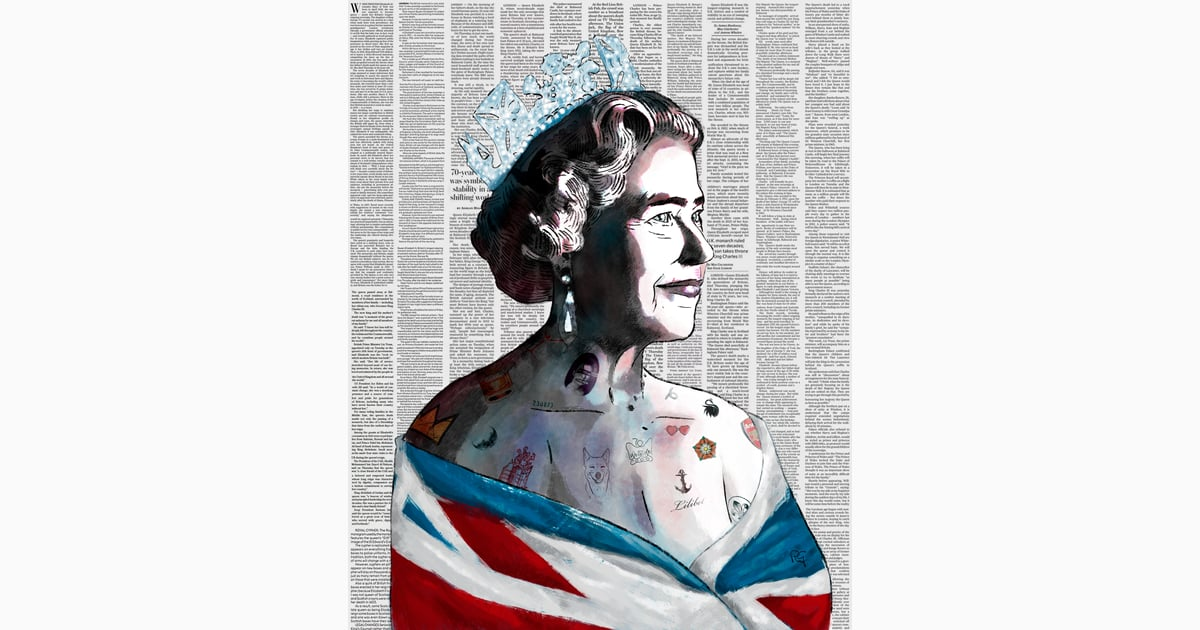
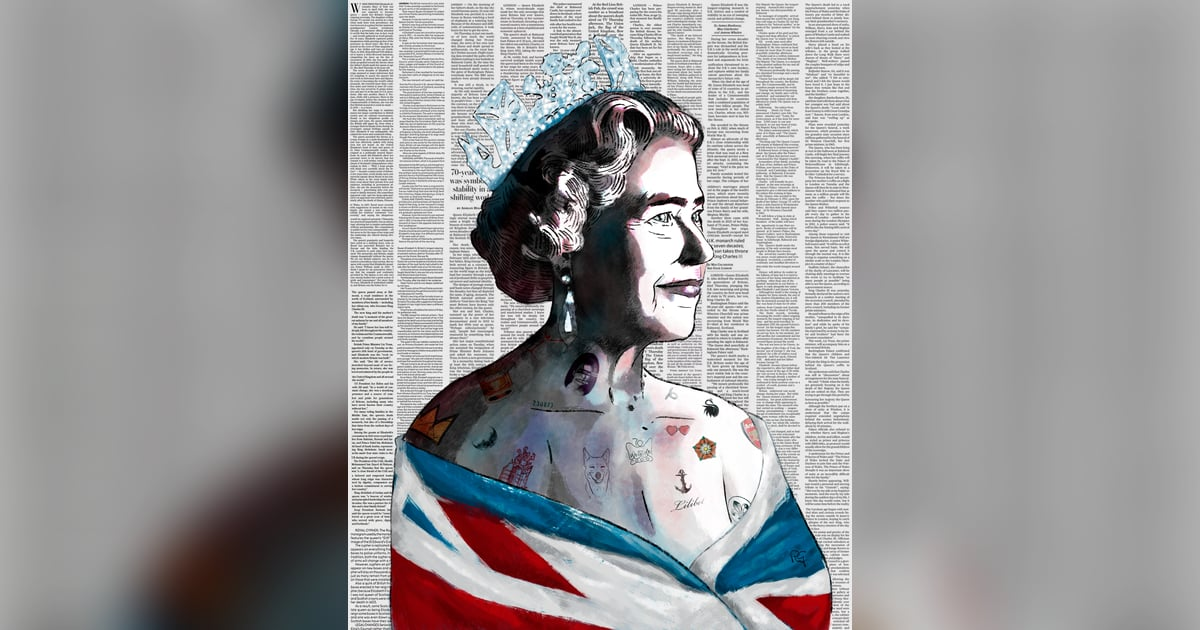
Add work: Homenaje a Studio Ghibli
First work published with /nueva-obra. Also from its review:
- OG images keep the whole artwork over a blurred fill instead of white
  bars (Isabel II regenerated too)
- Back link arrow hidden from screen readers
- Skill rules for fictional characters and ongoing series

diff --git a/src/views/data/works.js b/src/views/data/works.js
@@ -17,6 +17,46 @@ import { Categories } from './categories';
 
 export const works = [
   {
+    slug: 'fan-art-studio-ghibli',
+    title: 'Homenaje a Studio Ghibli',
+    category: 'POP_CULTURE',
+    franchise: 'Studio Ghibli',
+    status: 'featured',
+    order: 0,
+    kind: 'personal',
+    client: null,
+    series: null,
+    date: '2026-04-14',
+    summary: 'Fan art de las películas de Studio Ghibli, empezando por Mi vecino Totoro',
+    body: [
+      'Este es un proyecto personal y en marcha: mi homenaje, en forma de fan art, a las películas de Studio Ghibli.',
+      'De momento la protagonista es Mi vecino Totoro: Mei durmiendo sobre Totoro entre luciérnagas y los tres Totoros resguardándose de la lluvia bajo sus paraguas de hoja. Irán llegando ilustraciones de otras películas.'
+    ],
+    seo: {
+      title: 'Fan art de Studio Ghibli | Ilustración - Raúl García',
+      description: 'Fan art de Studio Ghibli: ilustraciones de Mi vecino Totoro con Totoro bajo la lluvia y Mei dormida entre luciérnagas. Proyecto personal en marcha.'
+    },
+    cover: 'portfolio/StudioGhibli/Totoro_2',
+    blocks: [
+      {
+        type: 'image',
+        image: 'portfolio/StudioGhibli/Totoro_2',
+        alt: 'Los tres Totoros, grande, mediano y pequeño, sentados en una rama bajo la lluvia nocturna, cada uno resguardado con una hoja a modo de paraguas, entre el follaje oscuro del bosque.',
+        width: 1280,
+        height: 1280,
+        altReviewed: true
+      },
+      {
+        type: 'image',
+        image: 'portfolio/StudioGhibli/Totoro',
+        alt: 'Mei, una niña con coletas, duerme tumbada sobre la barriga de Totoro, que también duerme boca arriba en un claro del bosque, de noche, rodeados de luciérnagas verdes; la escena está enmarcada con bordes irregulares, como de papel rasgado.',
+        width: 1280,
+        height: 905,
+        altReviewed: false
+      }
+    ]
+  },
+  {
     slug: 'retrato-isabel-ii',
     title: 'Isabel II, icono pop',
     category: 'PORTRAIT',

diff --git a/scripts/images.js b/scripts/images.js
@@ -70,17 +70,25 @@ const processImage = async (file, outputDir) => {
   return { file, name, originalBytes: fs.statSync(file).size, ...largest, warnings }
 }
 
-const writeOgImage = (file, slug) => {
+// La obra entera centrada sobre un fondo hecho con ella misma, ampliada y desenfocada:
+// sin recortar la obra ni dejar franjas blancas cuando no es apaisada
+const writeOgImage = async (file, slug) => {
   const output = path.join(ROOT, 'public', 'og', `${slug}.jpg`)
   fs.mkdirSync(path.dirname(output), { recursive: true })
-  return sharp(file)
-    .rotate()
-    .flatten({ background: BACKGROUND })
-    .resize({ ...OG_SIZE, fit: 'contain', background: BACKGROUND })
-    .toColourspace('srgb')
+  const base = () => sharp(file).rotate().flatten({ background: BACKGROUND }).toColourspace('srgb')
+  const background = await base()
+    .resize({ ...OG_SIZE, fit: 'cover' })
+    .blur(30)
+    .modulate({ brightness: 0.8 })
+    .toBuffer()
+  const artwork = await base()
+    .resize({ ...OG_SIZE, fit: 'inside' })
+    .toBuffer()
+  await sharp(background)
+    .composite([{ input: artwork, gravity: 'center' }])
     .jpeg({ quality: 85, mozjpeg: true })
     .toFile(output)
-    .then(() => path.relative(path.join(ROOT, 'public'), output).replace(/\\/g, '/'))
+  return path.relative(path.join(ROOT, 'public'), output).replace(/\\/g, '/')
 }
 
 const main = async () => {

diff --git a/src/views/portfolio/WorkComponent.vue b/src/views/portfolio/WorkComponent.vue
@@ -31,7 +31,7 @@
         </template>
       </section>
       <footer class="work__footer">
-        <router-link class="simple_link" to="/portfolio">← Volver al portfolio</router-link>
+        <router-link class="simple_link" to="/portfolio"><span aria-hidden="true">←</span> Volver al portfolio</router-link>
         <router-link class="simple_link" to="/contact">¿Quieres un encargo así? Escríbeme</router-link>
       </footer>
     </article>

diff --git a/docs/audits/seo-2026-10-28-fan-art-studio-ghibli.md b/docs/audits/seo-2026-10-28-fan-art-studio-ghibli.md
@@ -1,0 +1,44 @@
+# SEO y rendimiento — obra `fan-art-studio-ghibli` — 2026-10-28
+Resumen: 0 alto · 2 medio · 5 bajo
+
+Base: rama `portfolio_v2` con cambios sin commitear (`works.js`, `sitemap.xml`, `public/og/fan-art-studio-ghibli.jpg`, `src/assets/images/portfolio/StudioGhibli/`) y el `dist/` local ya compilado, servido con `scripts/render.js`. No he consultado producción. No repito lo que ya está en `specs/agents_in_portfolio.md` §6b ni en `docs/audits/seo-2026-10-28-sitio.md` (`og:type` article/website, `CreativeWork` → `VisualArtwork`, fondo CSS de la tarjeta, fuentes TTF, `/portfolio` duplicado de `/`).
+
+| Impacto | Área | Dónde | Problema (evidencia) | Corrección propuesta |
+|---|---|---|---|---|
+| Medio | Redes (OG) | `public/og/fan-art-studio-ghibli.jpg`; `scripts/images.js:79` | **La imagen OG tiene casi la mitad en blanco.** Mide 1200×630 y pesa 51 KB (correcto), pero se ha generado a partir de `Totoro_2`, que es cuadrada (1280×1280). Con `fit: 'contain'` sobre fondo blanco, la ilustración ocupa unos 630×630 en el centro y deja dos franjas blancas de unos 285 px cada una (≈ 48 % del área). Una escena nocturna oscura entre bandas blancas se ve pequeña y desequilibrada en WhatsApp, X y LinkedIn, y eso resta clics. | Regenerarla a partir de `Totoro` (1280×905, proporción 1,41, mucho más cercana a 1,91): `npm run images -- <origen> --slug fan-art-studio-ghibli --og Totoro.<ext>`. A medio plazo, en `images.js`, usar `fit: 'cover'` con `position: 'attention'` en las obras apaisadas, o rellenar los laterales con un color oscuro o una versión desenfocada de la propia obra en lugar del blanco. |
+| Medio | Contenido | `src/views/data/works.js` (entrada `fan-art-studio-ghibli`, `body` y `title`) | **Poco texto indexable y un h1 sin la búsqueda objetivo.** El `<main>` tiene unas 98 palabras, y solo unas 60 son de la obra (2 frases en `body`). El h1 es "Homenaje a Studio Ghibli": no incluye "fan art" ni "ilustración", que sí están en el `<title>`. Tampoco se mencionan Hayao Miyazaki, ni la técnica, ni que se aceptan encargos de fan art (el CTA "¿Quieres un encargo así?" no lleva texto que lo apoye). Para "fan art Studio Ghibli", "fan art Totoro" o "fan art por encargo", la página compite con muy poco contenido. | Ampliar `body` a 150–250 palabras: técnica y proceso (pincel, textura, paleta nocturna), por qué estas escenas y una frase sobre fan art por encargo de películas y series. Cambiar `title` (que se usa como h1 y en la tarjeta) a algo como "Fan art de Studio Ghibli: Mi vecino Totoro", o mantener "Homenaje…" y añadir un subtítulo con "fan art" e "ilustración". |
+| Bajo | Metas | `works.js` `seo.title` | El título (52 caracteres) y la description (147) están bien, son únicos y coinciden con y sin JS. Al título le sobran 8 caracteres que podrían usarse para "Totoro", el término con más búsquedas de los que aparecen en la obra. | p. ej. `Fan art de Studio Ghibli y Totoro \| Raúl García Ilustración` (59). |
+| Bajo | Datos estructurados | `src/views/portfolio/WorkComponent.vue:67`; `src/composables/useSeoMeta.js:88-104` | El JSON-LD es válido y sus URLs son absolutas, pero no usa el campo `franchise: 'Studio Ghibli'` de la obra, que ya existe en los datos. En el fan art es justo lo que relaciona la obra con la entidad que se busca. | Añadir al schema `about: { '@type': 'Movie', name: 'Mi vecino Totoro' }` (o `CreativeWorkSeries` "Studio Ghibli" a partir de `franchise`), `genre: 'Fan art'` y `keywords`. Conviene hacerlo junto al cambio a `VisualArtwork` que ya está en el backlog. |
+| Bajo | Redes (OG) | `scripts/prerender-meta.js:46` (zona de metas) | En el HTML sin JS faltan `og:image:width`/`og:image:height` (1200/630), `og:image:alt` y `og:locale=es_ES`. Sin las dimensiones, algunos rastreadores (Facebook/WhatsApp) no muestran la imagen grande la primera vez que se comparte la URL. | Emitir las cuatro metas en `prerender-meta.js` (y en `useSeoMeta`). Como `og:image:alt` puede servir el alt del primer bloque. |
+| Bajo | Sitemap | `public/sitemap.xml` (entrada de la obra); `scripts/sitemap.js` | `lastmod` es 2026-04-14, la fecha de creación (`date`), aunque la página se publica ahora. Además, el sitemap no declara las imágenes: para Google Imágenes, que es donde se busca fan art, un `<image:image>` por bloque ayuda a descubrir las variantes 1280. | `lastmod` a partir de la fecha de publicación o modificación (p. ej. la del último commit que toca la obra) y añadir `xmlns:image` con `<image:loc>` de cada bloque. |
+| Bajo | Google Imágenes | `src/assets/images/portfolio/StudioGhibli/` | Los ficheros se llaman `Totoro` y `Totoro_2`. El nombre del fichero es una señal (débil) para Google Imágenes, y `Totoro_2` no describe nada. Los alt sí son excelentes: concretos, sin relleno y con `altReviewed: true`. | Opcional, solo si se regeneran: algo como `Totoro_Mei_Luciernagas` y `Totoros_Lluvia_Paraguas`. CLAUDE.md pide conservar los nombres originales de la obra, así que es decisión del autor. |
+
+### Lo que está bien
+- **Indexación:** `render.js /portfolio/fan-art-studio-ghibli --raw` → **HTTP 200** con el HTML prerenderizado (`dist/portfolio/fan-art-studio-ghibli/index.html`): `<title>`, description, `og:*`, `twitter:*` (`summary_large_image`), canonical y JSON-LD `CreativeWork`, con URLs absolutas. Tras JS: un solo title, una description, un canonical y un JSON-LD, sin metas duplicadas.
+- La OG `https://raulgarcia.me/og/fan-art-studio-ghibli.jpg` existe en `public/og/` y en `dist/og/` (1200×630, 51 872 B).
+- Sitemap: la URL aparece una vez, es canónica y responde 200. `public/sitemap.xml` y `dist/sitemap.xml` son idénticos.
+- Un solo h1. Los dos alt son descriptivos y nombran a los personajes (Totoro, Mei).
+- **Imagen LCP:** `Totoro_2` con `loading="eager"`, `fetchpriority="high"`, `width="1280" height="1280"` (sin CLS), srcset y `sizes="(min-width: 840px) 800px, 100vw"`. La segunda imagen es `lazy` y también lleva `width`/`height`.
+- **Tarjeta en la home:** es la primera (`order: 0`), con un h2 "Homenaje a Studio Ghibli" y enlace "Ir al proyecto Homenaje a Studio Ghibli" → `/portfolio/fan-art-studio-ghibli`. Aligera el LCP de la home: ahora es Totoro (76 KB en móvil) en lugar de Isabel II (253 KB).
+
+## Métricas observadas
+
+**Imagen LCP por dispositivo** (`render.js --requests`)
+
+| Página | Móvil 390×844 @2x | Escritorio 1280×900 @1x |
+|---|---|---|
+| `/portfolio/fan-art-studio-ghibli` | `Totoro_2_960.jpeg` 76 KB (`<img>`, eager, `fetchpriority=high`); además `Totoro_960.jpeg` 52 KB (lazy, entra al hacer scroll) | `Totoro_2_960.jpeg` 76 KB (mostrada a 800×800); `Totoro_960.jpeg` 52 KB |
+| `/` (tarjeta) | `Totoro_2_960.jpeg` 76 KB (fondo CSS) | `Totoro_2_640.jpeg` 39 KB |
+
+**Variantes de la obra** (`src/assets/images/portfolio/StudioGhibli/`, ninguna > 300 KB)
+- `Totoro_2`: 320 (12 KB) · 640 (39 KB) · 960 (76 KB) · 1280 (118 KB), cuadrada 1280×1280.
+- `Totoro`: 320 (9 KB) · 640 (26 KB) · 960 (52 KB) · 1280 (88 KB), 1280×905.
+- OG: 1200×630, 51 KB.
+
+**JS/CSS inicial:** sin cambios respecto al informe del sitio (`chunk-vendors` 187 KB, `app.js` 25 KB, `app.css` 8 KB; el chunk de la obra son 6 KB de JS y 1 KB de CSS).
+
+**URL en el sitemap**
+
+| URL | HTTP sin JS | Metas propias sin JS | lastmod |
+|---|---|---|---|
+| `/portfolio/fan-art-studio-ghibli` | 200 | sí, completas (title 52, description 147) | 2026-04-14 |

diff --git a/docs/audits/ux-2026-10-28-fan-art-studio-ghibli.md b/docs/audits/ux-2026-10-28-fan-art-studio-ghibli.md
@@ -1,0 +1,56 @@
+# UX — obra `fan-art-studio-ghibli` — 2026-10-28
+
+Ámbito: `/portfolio/fan-art-studio-ghibli` y su tarjeta en `/`. No repito lo ya recogido en `specs/agents_in_portfolio.md` §6b (texto antes de la imagen, CTA como botón primario, página de encargos, logo «Ilustración × Diseño», titular de la home, Tienda en el menú, `aria-expanded`).
+
+Contexto: es un proyecto vivo. Irán llegando ilustraciones de otras películas de Ghibli a esta misma página, así que buena parte de lo que sigue trata de cómo aguanta la página cuando crezca.
+
+## Incoherencias
+
+| Prioridad | Dónde | Problema | Propuesta |
+|---|---|---|---|
+| Media | `src/views/data/works.js:21` vs `:36`; `desk-1.png` | La misma obra tiene dos nombres. La `<h1>` y la tarjeta dicen «Homenaje a Studio Ghibli», pero la pestaña, los resultados de búsqueda y lo que se ve al compartirla dicen «Fan art de Studio Ghibli». Alguien que llega desde Google con «fan art» ve otro nombre arriba. | Quedarse con uno. La spec (§2.1) quiere «fan art» en SEO y no como etiqueta, así que basta con un `seo.title` del tipo «Homenaje a Studio Ghibli: fan art de Mi vecino Totoro…», que contiene la `<h1>`. |
+| Media | `WorkComponent.vue:80-86`; `desk-1.png` | La línea de metadatos solo marca un tipo de obra: en los encargos pone «Encargo», pero en las obras personales no pone nada. Aquí sale «Cultura pop · Studio Ghibli · 2026», y que es un proyecto personal solo se sabe por el párrafo de debajo. Con más obras, el visitante no sabrá con un vistazo qué fue encargo y qué no. | Que la meta diga siempre el tipo: «Encargo» / «Proyecto personal». |
+| Media | `works.js:33`; `desk-1.png`, `full-1.png` | El cuerpo describe a mano las dos imágenes actuales («De momento la protagonista es Mi vecino Totoro: Mei… y los tres Totoros…»). En cuanto llegue la primera ilustración de otra película, el texto se quedará viejo y habrá que reescribirlo cada vez. Si se olvida, la página contradirá a sus propias imágenes. | Un cuerpo estable («homenaje en marcha a las películas de Ghibli; cada ilustración, una película») y llevar la descripción a cada imagen (ver mejora 1). |
+| Baja | `WorkComponent.vue:85`; `desk-1.png` | La fecha «2026» es la de la primera pieza (`date: '2026-04-14'`). En una serie viva, cuando se añadan piezas en 2027, la página parecerá parada en su primer año. | En proyectos vivos, mostrar un rango («2026–») o la fecha de la última pieza añadida. |
+| Baja | `full-1.png` (2.ª imagen) | La primera imagen va a sangre, cuadrada; la segunda trae su propio marco de papel rasgado sobre fondo gris claro. Seguidas y sin separación, parecen piezas de proyectos distintos. Es de la obra, no lo toco, pero se nota más porque no hay nada entre ellas. | Se resuelve con el pie por imagen de la mejora 1, que da ritmo de serie. |
+
+## Camino al encargo
+
+**Desde la home (`desk-2.png`, `mob-2.png`, `full-2.png`):**
+1. La tarjeta de Ghibli ocupa el hueco ancho de la primera posición (`order: 0` + `HomeComponent.vue:83-86`) y ha desplazado a Isabel II, que es un encargo real. La primera pieza que ve quien llega es un fan art personal y a medias. Para el público fan funciona como gancho, pero quien busca un retrato de regalo ve primero algo que nadie encargó.
+2. La tarjeta dice solo «Homenaje a Studio Ghibli / Cultura pop». No pone de qué película es ni que se puede pedir algo parecido. El `summary` existe (`works.js:30`), se pasa como `resume` (`HomeComponent.vue:16`), pero `ProjectCard.vue:4-7` no lo pinta.
+3. Clic en la tarjeta. En móvil, el texto ocupa el primer pantallazo y la imagen empieza a ~350 px CSS (`mob-1.png`). Ya está en §6b.
+
+**Desde la obra (`full-1.png`):**
+4. Tras las dos imágenes solo hay dos salidas en enlace de texto: «← Volver al portfolio» y «¿Quieres un encargo así? Escríbeme». No hay ninguna otra obra ni ninguna otra película a la vista.
+5. «¿Quieres un encargo así?» es ambiguo en una obra personal de personajes con copyright. El fan no sabe si «así» significa «un Totoro para mí», «mi personaje favorito en este estilo» o «un homenaje a una saga entera». Tampoco sabe qué recibe (digital, impreso), en cuánto tiempo ni por cuánto: no hay página de encargos (§6b).
+6. En `/contact` el camino sigue con los problemas ya conocidos de §6b.
+
+Atasco principal: el visitante con más ganas de esta página es el fan de Ghibli, y la página no le dice en ningún momento que puede pedir **su** escena o **su** personaje.
+
+## Mejoras propuestas (máx. 5, opinión razonada)
+
+1. **Un pie de imagen por pieza, con la película y la escena** (p. ej. `caption` opcional en cada bloque de `works.js`, pintado bajo la imagen). Es lo que convierte la página en una serie que crece sin reescribir el cuerpo. El fan escanea las películas que reconoce y cada pieza nueva tiene su nombre. Sin esto, con 6-8 piezas la página se vuelve un scroll mudo de imágenes.
+2. **Una llamada a la acción adaptada al fan art**, en lugar del genérico «¿Quieres un encargo así?». Algo como «¿Tienes una película o un personaje favorito? Te lo ilustro por encargo», con enlace a encargos o contacto. Mejor si se puede definir por obra en `works.js` y no está fija en `WorkComponent.vue:35`. Aquí está el mayor potencial de encargos de la página: un regalo para un fan de Ghibli es exactamente el caso de uso.
+3. **Decidir a conciencia qué ocupa la primera tarjeta ancha.** Hoy la ocupa una obra personal en curso porque `order: 0` la pone ahí. Si el objetivo es el encargo, la tarjeta ancha debería ir a la pieza que mejor venda lo encargable, o alternar. Esto pide una regla en la selección (`order`/`featured`), no un retoque de esta obra.
+4. **Mostrar el `summary` en la tarjeta** (`ProjectCard.vue`). «Fan art de las películas de Studio Ghibli, empezando por Mi vecino Totoro» dice el tema y el estado del proyecto mejor que «Cultura pop», y el dato ya está escrito.
+5. **Señal de vida en la serie:** meta con «Proyecto personal · en curso» y fecha de la última pieza, y el orden de las imágenes de la más reciente a la más antigua (o por película, pero decidido). Así quien vuelve ve que hay novedades y no la misma página de abril.
+
+## Fuera de mi ámbito
+
+- `seo.title` distinto de la `<h1>` y del nombre en el JSON-LD: revisor SEO.
+- Los alt de ambas imágenes son largos (unos 170-190 caracteres) y describen bien. Si sobra el detalle del marco «de papel rasgado», lo decide el revisor de accesibilidad.
+- Propiedad intelectual: el nombre «Studio Ghibli» en el título y la URL está bien para portfolio. Si algún día se venden láminas de estas piezas, aplica el aviso de §2.1.
+
+## Capturas revisadas
+
+Carpeta: `C:\Users\Raul\AppData\Local\Temp\claude\d--workspace-portfolio\8625b3b0-f9e0-4ac3-8719-020d84d91beb\scratchpad\ux-obra\`
+
+- `desk-1.png`: obra, escritorio 1280×800
+- `mob-1.png`: obra, móvil 390×844 @2x
+- `full-1.png`: obra, móvil, página entera
+- `desk-2.png`: home, escritorio 1280×800
+- `mob-2.png`: home, móvil 390×844 @2x
+- `full-2.png`: home, móvil, página entera
+- `desk-home-full.png`: home, escritorio, página entera
+- Resumen de texto de `render.js` para `/portfolio/fan-art-studio-ghibli` (enlaces, metadatos, imágenes)

diff --git a/docs/audits/a11y-2026-10-28-fan-art-studio-ghibli.md b/docs/audits/a11y-2026-10-28-fan-art-studio-ghibli.md
@@ -1,0 +1,27 @@
+# Accesibilidad — fan-art-studio-ghibli — 2026-10-28
+Resumen: 0 crítico · 0 serio · 0 moderado · 3 menor
+
+Ámbito: entrada `fan-art-studio-ghibli` en `src/views/data/works.js:19-58`, `/portfolio/fan-art-studio-ghibli` (`src/views/portfolio/WorkComponent.vue`) y su tarjeta en `/` (`src/components/ProjectCard.vue`). Aquí no repito los problemas globales que ya están en `specs/agents_in_portfolio.md` §6b (menú `aria-expanded="isOpened"`, foco al cambiar de ruta, `prefers-reduced-motion`, contraste del azul, `/portfolio` duplicado, logo).
+
+| Sev. | Criterio WCAG | Dónde (fichero:línea / ruta) | Problema | Corrección propuesta |
+|---|---|---|---|---|
+| menor | 1.1.1 (texto alternativo de obra; mejora) | `src/views/data/works.js:52` · 2.ª imagen (`Totoro`) | El alt es correcto: lo he comparado con `Totoro_1280.jpeg`. Le falta un detalle de la escena: Totoro también duerme, tumbado boca arriba con la panza al aire, y Mei descansa encima boca abajo, con las piernas levantadas. Ahora solo se entiende que «Mei duerme sobre Totoro». | Opcional, por ejemplo: «Mei, una niña con coletas, duerme boca abajo sobre la barriga de Totoro, que también duerme tumbado boca arriba en un claro del bosque, de noche, entre luciérnagas verdes; la escena está enmarcada con bordes irregulares, como de papel rasgado.» |
+| menor | 2.4.4, 1.1.1 | `src/views/portfolio/WorkComponent.vue:34` · `/portfolio/fan-art-studio-ghibli` | La flecha «←» es texto del enlace, así que los lectores de pantalla leen «flecha izquierda, Volver al portfolio» (salida de `render.js`: `← Volver al portfolio → /portfolio`). Afecta a todas las fichas de obra. Lo he deducido del DOM; no lo he probado con un lector real. | `<span aria-hidden="true">←</span> Volver al portfolio`. |
+| menor | Documentación | `CLAUDE.md` («Architecture», «Gotchas: Añadir un proyecto…», «Datos») | `CLAUDE.md` dice que cada proyecto tiene su componente en `src/views/portfolio/`, su ruta escrita a mano y una entrada en `portfolio.js`. En el código, las obras son datos en `src/views/data/works.js` y las pinta un único `WorkComponent.vue` (`src/router/index.js:3` importa `findWork`). Si se siguen las instrucciones documentadas, se duplicarán rutas. | Actualizar `CLAUDE.md` para describir `works.js` + `WorkComponent` y el flujo `/nueva-obra`. |
+
+## Revisado y correcto
+- **Alt de la 1.ª imagen** (`works.js:44`, `Totoro_2`): lo he comparado con la imagen. Es fiel: tres Totoros (grande gris, mediano azul, pequeño blanco) en una rama bajo la lluvia de noche, cada uno con una hoja como paraguas, entre follaje oscuro. `altReviewed: true` está justificado.
+- **Alt de la 2.ª imagen** (`works.js:52`): el contenido es correcto (Mei con coletas, Totoro, luciérnagas verdes, marco de papel rasgado). Solo le falta el matiz que indico arriba.
+- Ningún alt es el valor por defecto `Image`. Las dos imágenes pasan por `OptimizedImageComponent` (`WorkComponent.vue:14-21`). La primera se carga con `eager` y la segunda con `lazy`. Los ficheros de `_960` se sirven a 800 px, y `width`/`height` coinciden con la imagen (1280×1280, 1280×905).
+- **Estructura** (`render.js`): `lang=es`, un solo `<main>`, una sola `<h1>` («Homenaje a Studio Ghibli»), sin saltos de encabezado. `<article aria-labelledby>` apunta a la h1. La sección se llama «Imágenes de Homenaje a Studio Ghibli». El `header` y el `footer` de la obra van dentro de `article`, así que no crean landmarks banner ni contentinfo duplicados.
+- **`<title>` propio**: «Fan art de Studio Ghibli | Ilustración - Raúl García».
+- **Teclado y foco**: el orden es lógico: nav → «← Volver al portfolio» (Tab 6) → «¿Quieres un encargo así? Escríbeme» (Tab 7) → redes (Tab 8). El foco es visible (`outline: auto 1px`), comprobado en captura. En la home, la tarjeta recibe el foco en Tab 9 con contorno visible.
+- **Tarjeta en `/`**: es un enlace con nombre «Ir al proyecto Homenaje a Studio Ghibli», `<h2>` con el título y categoría «Cultura pop». El nombre accesible contiene el título visible (2.5.3). La portada es un fondo CSS dentro de un enlace con nombre, así que no le falta alternativa. El texto va sobre blanco (15,5:1, ya medido en la auditoría del sitio).
+- **Contraste**: los metadatos «Cultura pop · Studio Ghibli · 2026» usan `--primary-color` sobre `#FAFAFA` = 10,35:1. El cuerpo usa `#252422` sobre `#FAFAFA` = 14,86:1. No hay texto sobre la imagen en la ficha.
+- **Móvil (390×844, dpr 2)**: no hay desbordes. Los dos enlaces del pie de la obra se apilan con 1rem de separación, así que cumplen 2.5.8 por la excepción de espaciado.
+- No hay iframes ni vídeo en esta obra.
+
+## No verificado (y por qué)
+- **Lector de pantalla real** (NVDA/VoiceOver): solo he usado el árbol que da `render.js`.
+- **Tarjeta en móvil y su hover**: no he hecho captura. El movimiento ya figura en §6b.
+- **Foco y anuncio al llegar desde la home** (navegación SPA): es un problema global ya registrado en §6b.

diff --git a/.claude/skills/nueva-obra/SKILL.md b/.claude/skills/nueva-obra/SKILL.md
@@ -13,7 +13,8 @@ Lee `CLAUDE.md` si no lo tienes en contexto: explica `works.js`, los scripts y l
 
 ## Reglas
 - **No inventes datos.** Cliente, fecha, encargo, premios, técnica o contexto solo si salen del autor, de `nota.txt` o del historial de la web (ver paso 1). Si falta algo que importa, pregunta.
-- **No identifiques a personas reales por su cara.** El nombre de una persona retratada o de un personaje sale del título, del comentario, de la nota o del nombre de fichero, nunca de reconocerla en la imagen. Una franquicia solo se escribe si el autor la nombra o la confirma.
+- **No identifiques a personas reales por su cara.** El nombre de una persona retratada sale del título, del comentario, de la nota o del nombre de fichero, nunca de reconocerla en la imagen.
+- **Personajes de ficción y franquicias:** puedes proponerlos si la imagen o el nombre de fichero lo sugieren, pero en el borrador van marcados para que el autor los confirme. Nunca se publican sin esa confirmación.
 - **Nunca modifiques los originales** (`inbox/`, `originals/`).
 - Nada de push, merge ni despliegue sin que el autor lo pida.
 - Textos en español de España, primera persona, cercanos y concretos, sin superlativos ("increíble", "único") ni relleno. Tuteo.
@@ -43,8 +44,9 @@ Tipo / año:  Encargo · 2024              |  Personal · 2024
 Home:        destacada / visible · posición (por defecto, la primera)
 Resumen:     … (tarjeta de la home, ≤ 90 caracteres)
 Texto:       1–3 párrafos a partir del comentario
-SEO título:  … (≤ 60 caracteres; patrón "<Título> (<franquicia>) | Ilustración - Raúl García"
-              o "<Título> | Retrato por encargo - Raúl García")
+SEO título:  … (≤ 60 caracteres; patrones: "<Título> (<franquicia>) | Ilustración - Raúl García",
+              "Fan art de <franquicia> | Ilustración - Raúl García" o
+              "<Título> | Retrato por encargo - Raúl García")
 SEO desc.:   … (≤ 155 caracteres, con la búsqueda que encaje: fan art de <franquicia>,
               ilustración de <serie/peli/juego>, retrato ilustrado por encargo…)
 Imágenes:    1. <fichero> — alt: "…"   (principal: tarjeta, OG y primera en la página)
@@ -52,6 +54,7 @@ Imágenes:    1. <fichero> — alt: "…"   (principal: tarjeta, OG y primera en
 ```
 
 - **Alt:** describe la escena para quien no la ve (quién, qué hace, ambiente, técnica si se aprecia); con el nombre del personaje o persona si el autor lo ha dado. 1–2 frases.
+- **Proyectos vivos** (una serie que irá creciendo, como "fan art de Studio Ghibli"): slug y título genéricos para la serie, no para la primera pieza, y un texto que no caduque al añadir imágenes.
 - Termina preguntando si publica así o qué cambia. Aplica los cambios y, si son grandes, vuelve a enseñar solo lo que cambió.
 
 ## 3. Generar
